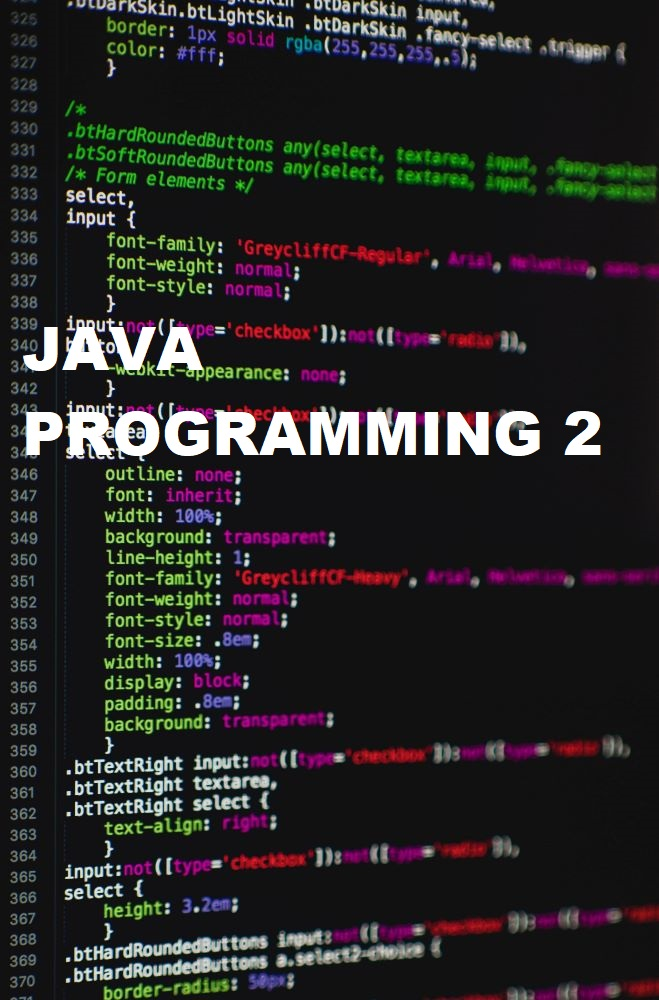
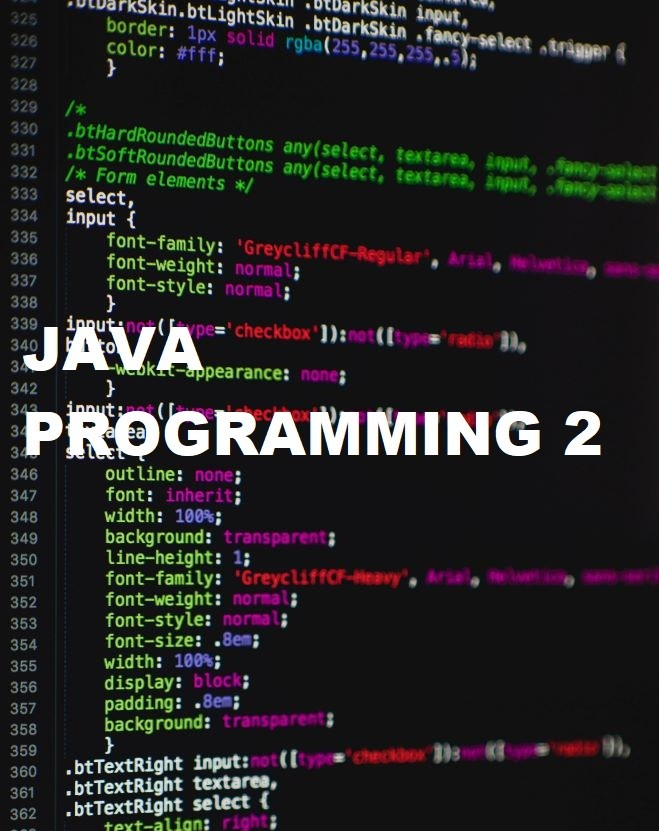
Changes to be committed: 	modified:   about.html 	modified:   images/Java.jpg 	modified:   index.html 	modified:   js/whatsapp.js 	modified:   sales.html 	modified:   service.html

diff --git a/sales.html b/sales.html
@@ -100,19 +100,17 @@
   <div class="body_bg layout_padding">
 
     <!-- service section -->
-
     <section class="service_section ">
       <div class="container">
         <div class="heading_container">
           <h2>
-            Available Assignments and CAs <br>
+            Available Assignments and CAs
           </h2>
-      </div>
-      <p style="color:#E93F1A; text-align:center;">You need to take into consideration that to have the premium product a charge of 500 XAF will be needed</p>
         </div>
+      </div>
       <div class="container">
         <div class="row">
-          <!-- <div class="col-md-6">
+          <div class="col-md-6">
             <div class="box">
               <div class="img-box">
                 <img src="images/OOAID.png" alt="" style
@@ -128,14 +126,14 @@
                 This CA is about identifying social problems and implementing solutions
                 It requires the student to have requirement gathering and provide implementation technics <br><br>
                 <strike>Pricing :10.000 XAF</strike><br>
-                Promotion : 7.000 XAF <br>
+                Promotion : 5.000 XAF <br>
                 Contact us to save your Solution 
               </p>
-              <a href="https://wa.link/cx3iu3">
+              <a href="">
                 Contact us
               </a>
             </div>
-          </div> -->
+          </div>
           <div class="col-md-6">
             <div class="box">
               <div class="img-box">
@@ -204,44 +202,46 @@
               </a>
             </div>
           </div> -->
-          <!-- <div class="col-md-6">
-            <div class="box">
+           <div class="col-md-6">
+            <div class="box align-items-end align-items-md-start text-right text-md-left">
               <div class="img-box">
-                <img src="images/CMaths.png" alt="" style
+                <img src="images/Java.jpg" alt="" style
                 width="50%";
                 >
               </div>
               <h4>
-                Computational Mathematics
+                Java Programming 2
               </h4>
               <p>
                 <br>
-                Computational Mathematics solutions available on our platforms <br> 
-                This is about today's CA  <br><br>
-                Pricing : 4.000 XAF <br>
-                Contact us to save your Solution 
+                Java Programming 2 Solution are Available on our platforms. <br>
+                This CA is to ask the student to create various projects written with Java programming language
+                <br>The student have to create a user interface in each given projects.
+                <br>
+                Price: 7.000 XAF <br>
+                
               </p>
-              <a href="https://wa.link/8mv9ef">
-                Contact us
+              <a href="">
+                Contact Us
               </a>
             </div>
-          </div> -->
+          </div> 
         </div>
-
-        
       </div>
-      </div>
+      <br>
+    <br>
     </section>
 
     <!-- end service section -->
     <section class="container-fluid footer_section">
-        <p>
-          Copyright &copy; 2022 All Rights Reserved By
-          <a href="">Novus Technologies</a>
-        </p>
-      </section>
+      <p>
+        Copyright &copy;  <span class="year"></span> All Rights Reserved By
+        <a href="">Novus Technologies</a>
+      </p>
+    </section>
   </div>
   <script type="text/javascript" src="js/jquery-3.4.1.min.js"></script>
+  <script src="js/whatsapp.js"></script>
   <script type="text/javascript" src="js/bootstrap.js"></script>
 </body>
 </html>

diff --git a/index.html b/index.html
@@ -79,9 +79,9 @@
                 <li class="nav-item">
                   <a class="nav-link" href="service.html"> Service </a>
                 </li>
-                <li class="nav-item active">
+                <!-- <li class="nav-item active">
                     <a class="nav-link" href="sales.html">Sales</span></a>
-                  </li>
+                  </li> -->
                 <li class="nav-item active">
                   <a class="nav-link" href="contact.html">Contact us</a>
                 </li>
@@ -477,27 +477,30 @@
               </a>
             </div>
           </div> -->
-          <!-- <div class="col-md-6">
+           <div class="col-md-6">
             <div class="box align-items-end align-items-md-start text-right text-md-left">
               <div class="img-box">
-                <img src="images/DS.jpg" alt="" style
+                <img src="images/Java.jpg" alt="" style
                 width="50%";
                 >
               </div>
               <h4>
-                Data Science
+                Java Programming 2
               </h4>
               <p>
                 <br>
-                Data Science solutions are Available on our platforms. <br>
-                Princing: 2.500 XAF <br>
-                Contact us to save your solution
+                Java Programming 2 Solution are Available on our platforms. <br>
+                This CA is to ask the student to create various projects written with Java programming language
+                <br>The student have to create a user interface in each given projects.
+                <br>
+                Price: 7.000 XAF <br>
+                
               </p>
-              <a href="https://wa.link/p3b3gc">
+              <a href="">
                 Contact Us
               </a>
             </div>
-          </div> -->
+          </div> 
         </div>
       </div>
       <br>
@@ -721,7 +724,7 @@
   <!-- footer section -->
   <section class="container-fluid footer_section">
     <p>
-      Copyright &copy; 2022 All Rights Reserved By
+      Copyright &copy;  <span class="year"></span> All Rights Reserved By
       <a href="">Novus Technologies</a>
     </p>
   </section>

diff --git a/service.html b/service.html
@@ -213,9 +213,9 @@
   <!-- end info section -->
 
   <!-- footer section -->
-  <section class="container-fluid footer_section">
+ <section class="container-fluid footer_section">
     <p>
-      Copyright &copy; 2022 All Rights Reserved By
+      Copyright &copy;  <span class="year"></span> All Rights Reserved By
       <a href="">Novus Technologies</a>
     </p>
   </section>
@@ -223,7 +223,7 @@
 
   <script type="text/javascript" src="js/jquery-3.4.1.min.js"></script>
   <script type="text/javascript" src="js/bootstrap.js"></script>
-
+  <script src="js/whatsapp.js"></script>
 </body>
 
 </html>

diff --git a/js/whatsapp.js b/js/whatsapp.js
@@ -4,8 +4,12 @@ var links = [
     "https://wa.me/237694191567"
 ];
 
+document.querySelector(".year").textContent = new Date().getFullYear()
+
 document.getElementById("random-link").addEventListener("click",function(event){
     event.preventDefault();
     var randomIndex = Math.floor(Math.random()*links.length);
     window.location.href = links[randomIndex];
 });
+
+

diff --git a/about.html b/about.html
@@ -210,8 +210,8 @@
   <!-- footer section -->
   <section class="container-fluid footer_section">
     <p>
-      Copyright &copy; 2022 All Rights Reserved By
-      <a href="">Novus Technolgies</a>
+      Copyright &copy;  <span class="year"></span> All Rights Reserved By
+      <a href="">Novus Technologies</a>
     </p>
   </section>
   <!-- footer section -->
